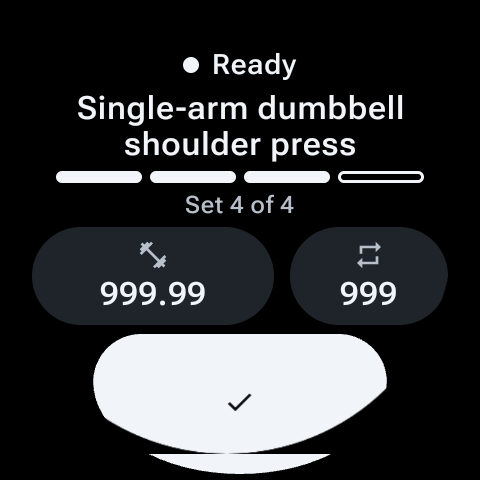
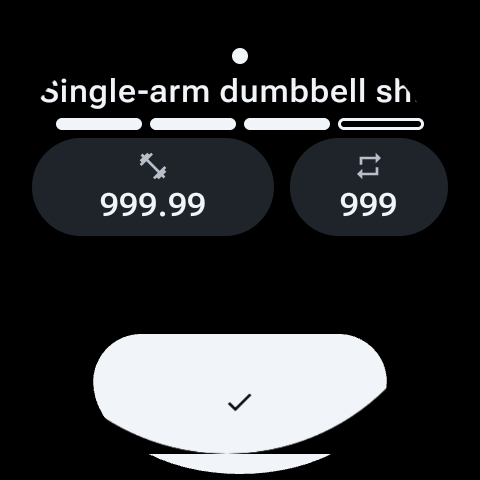
docs(wear): re-capture the 192dp surface after the header cut
Six images re-taken at both profiles and both locales, plus the 192dp Russian
surface at font scale 1.24 where the residual is largest, and the read-only
variant. The scrolled pair is gone: the cards no longer need a swipe to be
seen, which was the point of the cut.

The README now carries the step-by-step stack heights (138/159 → 120/137 →
112/124 → 94/102dp) and states plainly what is visible at rest: the connection
dot with no word beside it, the exercise name on one line, the set-scale pills,
both value cards, and the check-glyph action. The read-only image shows the
status word still drawn, because in a degraded state the word is the message.

It also records what the residual looks like rather than only its size: at
scale 1.24 both values read cleanly and it is the bottom of the card fill that
is clipped, not the numbers.

Claude-Session: https://claude.ai/code/session_01RhvCF9rprY7z8VPJQf96E8

diff --git a/documentation/feature-specs/wear-card-asymmetry/README.md b/documentation/feature-specs/wear-card-asymmetry/README.md
@@ -22,49 +22,39 @@ Card fill (`#1E242A`) extents, read off the pixels rather than quoted from the l
 
 | Image | Screen | Locale | Weight card | Reps card | Ratio |
 | --- | --- | --- | --- | --- | --- |
-| `small-round-192dp-en-scrolled.png` | 192dp | en | **92dp** | **60dp** | 1.53:1 |
-| `small-round-192dp-ru-scrolled.png` | 192dp | ru | **92dp** | **60dp** | 1.53:1 |
+| `small-round-192dp-en.png` | 192dp | en | **92dp** | **60dp** | 1.53:1 |
+| `small-round-192dp-ru.png` | 192dp | ru | **92dp** | **60dp** | 1.53:1 |
 | `xl-round-240dp-en.png` | 240dp | en | **121dp** | **79dp** | 1.53:1 |
 | `xl-round-240dp-ru.png` | 240dp | ru | **121dp** | **79dp** | 1.53:1 |
 
 Content width inside each card is 16dp less: 76dp / 44dp on small, 105dp / 63dp on XL.
 
-## What is visible at rest on the small screen — reported, not acted on
+## What is visible at rest on the small screen — after the header cut
 
-`small-round-192dp-en.png` and `small-round-192dp-ru.png` are the 192dp surface as it first
-appears, before any scrolling. Visible at rest, in order: the **connection dot and status
-word**, the **exercise name** (two lines, ellipsized), the **set scale pills**, the **set
-progress line** («Подход 4 из 4»), and the **anchored primary action**. The **two value
-cards are below the fold** — only their top edges clear the button — so neither the weight
-nor the reps can be read without scrolling. `small-round-192dp-ru-disabled.png` shows the
-read-only variant, where the unavailability word «Недоступно» is anchored above the arc and
-the set-progress line has scrolled out.
+The header was cut in three steps to bring the value cards above the fold. Stack height at
+192dp, and how much of the 49dp / 53dp card block is visible at rest, at scales 1.0 / 1.24:
 
-The `-scrolled` pair is the same surface after one swipe, which is what the width table
-above is measured from. This is consistent with the touch gate, which already scrolls before
-tapping a card on this profile. Whether the fold is acceptable is a design question and is
-recorded here untouched.
-
-## Measured heights on the 192dp profile — numbers only
-
-Requested for the open layout question. Measured from the running composition at the small
-round profile; the harness was checked against a known-negative first (a control string that
-cannot fit one line measured 160 × 55dp at scale 1.0 and 160 × 67dp at 1.24, so it reports a
-different answer when the answer differs).
-
-| Measure | scale 1.0 | scale 1.24 |
+| Step | Stack height | Card visible |
 | --- | --- | --- |
-| At-rest content stack, top inset (y = 24dp) to the bottom of the value cards | **138dp** | **159dp** |
-| Height available above the anchored action (screen top → button top, y = 119dp) | **119dp** | **119dp** |
-| — of which usable content area (116dp scroll viewport, less the 24dp top inset) | **92dp** | **92dp** |
-| Stack minus usable area | **46dp** | **67dp** |
-| Height of the value-card block (what a single row would replace) | **49dp** | **53dp** |
-| Single-line row «80 кг · 8», card type size, given the full 160dp content width | **64 × 19dp** | **78 × 23dp** |
+| baseline | 138dp / 159dp | 3dp / 0dp |
+| 1 — «Подход N из M» moves to the pill row's description | 120dp / 137dp | 21dp / 8dp |
+| 2 — the status word leaves the drawing in ACTIVE only | 112dp / 124dp | 29dp / 21dp |
+| 3 — the exercise name drops to one line | **94dp / 102dp** | **47dp / 43dp** |
 
-Arithmetic on those figures: substituting a 19dp / 23dp row for the 49dp / 53dp card block
-would put the stack at 108dp (scale 1.0) and 129dp (scale 1.24).
+**The criterion is not met.** Both cards are **2dp short at scale 1.0 and 10dp short at
+1.24** — card bottom at 118dp and 126dp against a viewport ending at 116dp. What that means
+in practice is visible in the images: both values read cleanly at both scales, and it is the
+bottom of the card *fill* that is clipped, not the numbers. Nothing was shrunk, tightened,
+reduced or raised to close the gap.
 
-No conclusion is drawn here and nothing was built.
+Visible at rest on the ACTIVE surface now, in order: the **connection dot** (filled, with no
+word beside it — the word is spoken, not drawn, in this state only), the **exercise name** on
+one line, the **set-scale pills** (whose «Подход 4 из 4» is spoken), and **both value cards**
+with their icons and values, above the **check-glyph action**.
+
+`small-round-192dp-ru-disabled.png` shows the read-only variant, where the status word *is*
+drawn — it is the whole message there — and «Недоступно» sits between the pills and the
+outlined action.
 
 ## The mid-word break, fixed
 
